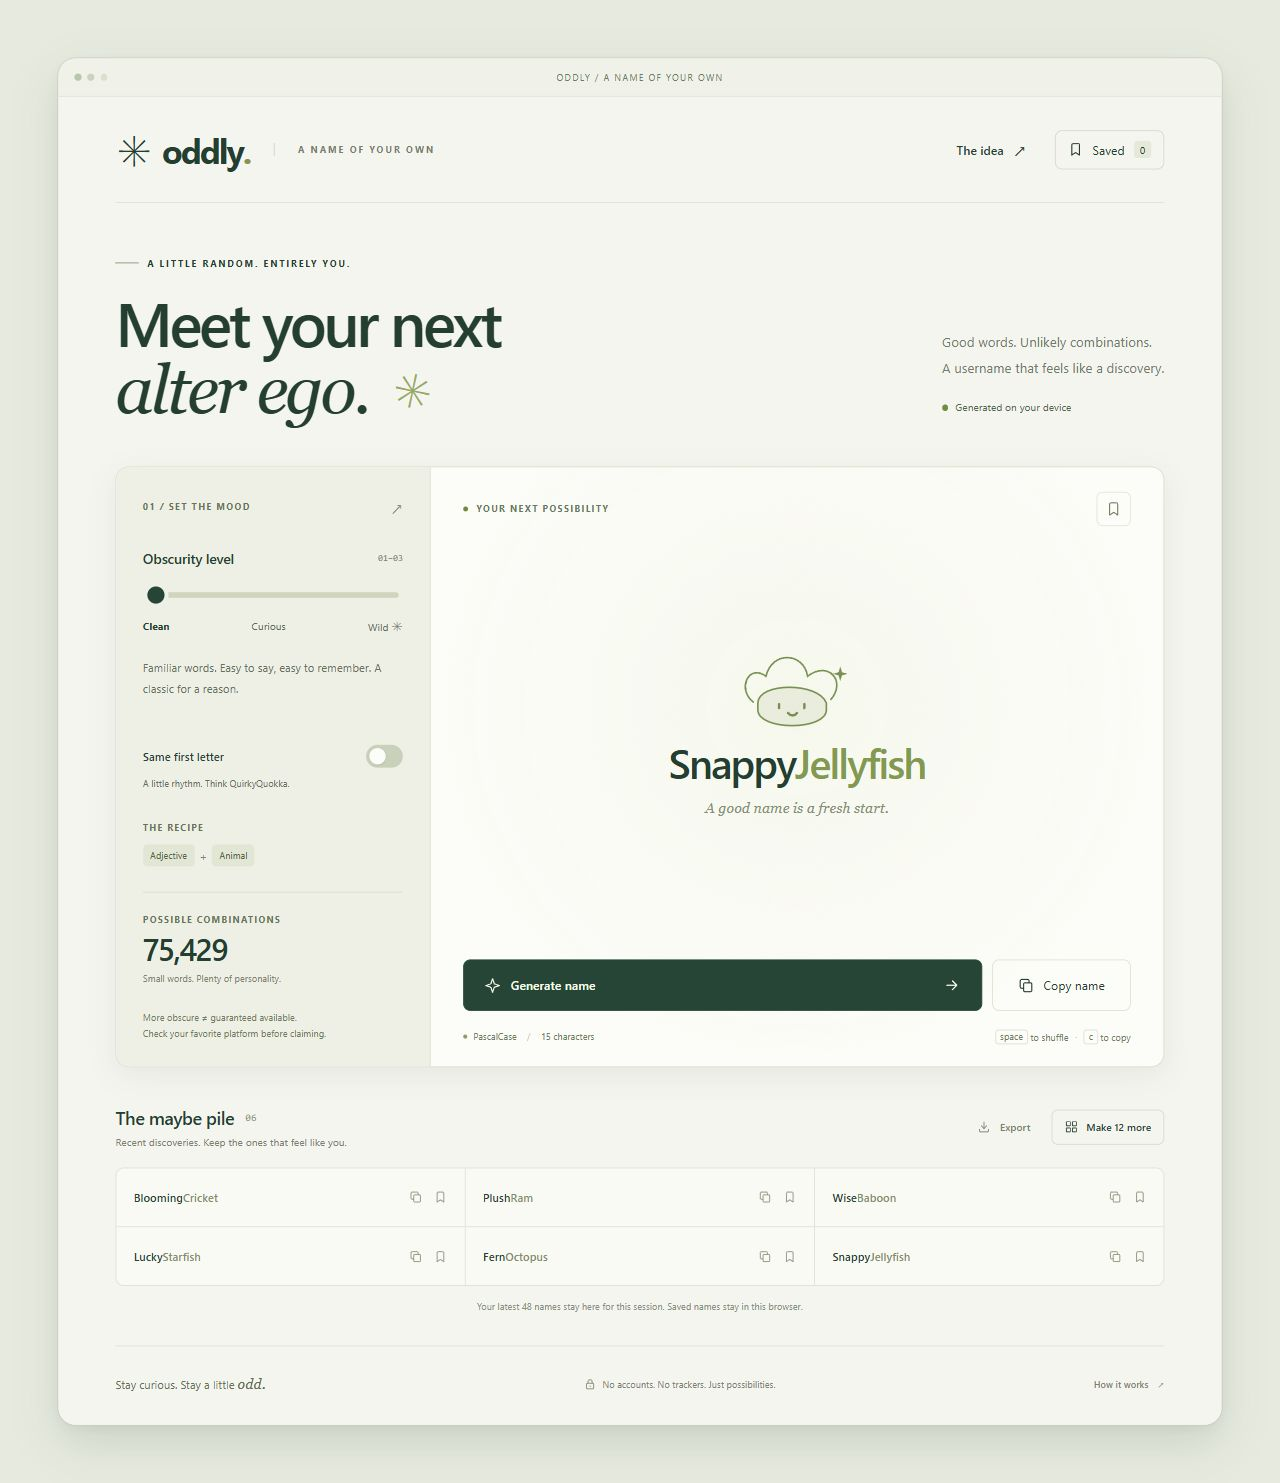
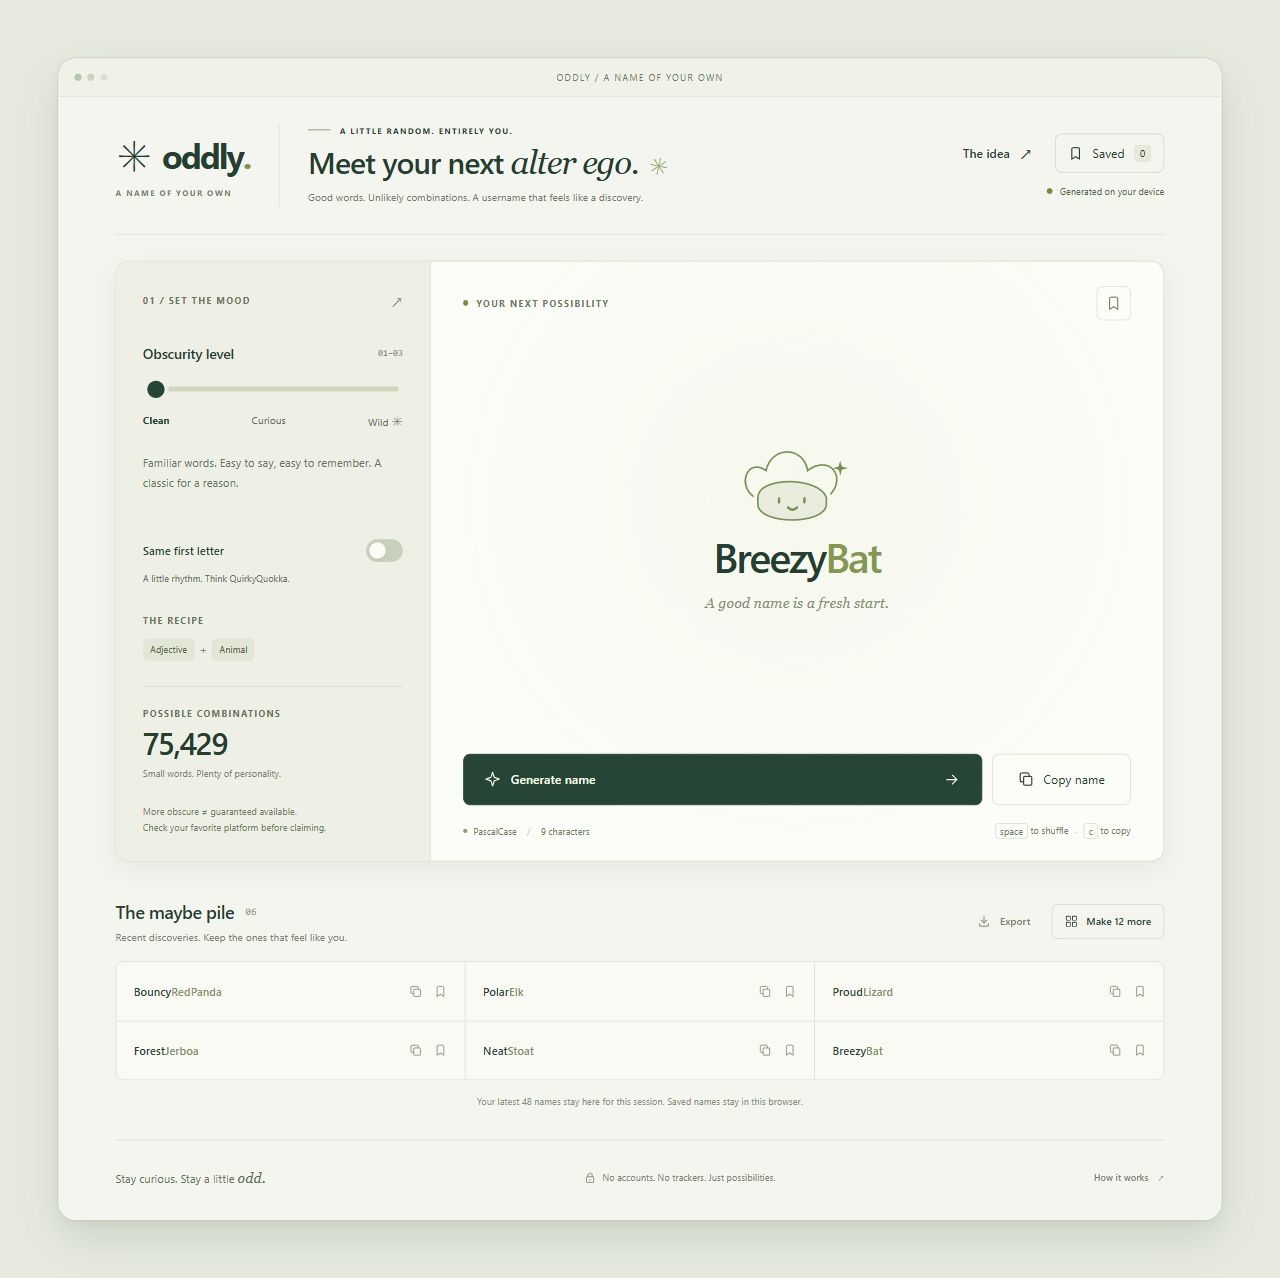
Combine navigation and intro into a compact horizontal header

diff --git a/styles.css b/styles.css
@@ -13,7 +13,7 @@
 @layer base {
   :root { --paper: #f5f5ef; --ink: #253e32; --muted: #73796e; --line: #dddfd4; --green: #264536; --lime: #e0edaf; --serif: Georgia, 'Times New Roman', serif; --sans: 'Inter', 'Segoe UI', -apple-system, BlinkMacSystemFont, sans-serif; }
   html { background: var(--paper); color: var(--ink); font-family: var(--sans); font-size: 14px; scroll-behavior: smooth; }
-  body { min-width: 320px; }
+  body { min-width: 0; }
   button { border: 0; background: none; }
   a { color: inherit; text-decoration: none; }
   button, a, input { touch-action: manipulation; }
@@ -26,12 +26,14 @@
   .icon-definitions { position: absolute; width: 0; height: 0; overflow: hidden; }
   .icon { width: 19px; height: 19px; flex-shrink: 0; fill: none; stroke: currentColor; stroke-width: 1.65; stroke-linecap: round; stroke-linejoin: round; }
   .site-shell { max-width: 1248px; margin: auto; padding: 0 56px; }
-  .site-header { height: 104px; display: flex; align-items: center; border-bottom: 1px solid var(--line); gap: 23px; }
+  .site-header { display: grid; grid-template-columns: auto minmax(0, 1fr) auto; align-items: center; border-bottom: 1px solid var(--line); column-gap: 28px; padding: 27px 0; margin-bottom: 25px; }
+  .brand-group { display: flex; flex-direction: column; align-items: flex-start; gap: 10px; }
   .brand { display: inline-flex; align-items: center; font-size: 33px; font-weight: 750; letter-spacing: -1.8px; }
   .brand-mark { font-size: 41px; font-weight: 500; margin-right: 11px; line-height: 1; }
   .brand-dot { color: #839550; }
-  .brand-caption { border-left: 1px solid #cbd0bf; padding-left: 23px; color: #767e70; font-size: 9px; letter-spacing: 1.8px; font-weight: 650; }
-  .site-header nav { margin-left: auto; display: flex; align-items: center; gap: 28px; }
+  .brand-caption { color: #767e70; font-size: 8px; letter-spacing: 1.3px; font-weight: 650; }
+  .header-actions { display: flex; flex-direction: column; align-items: flex-end; gap: 12px; }
+  .site-header nav { display: flex; align-items: center; gap: 22px; }
   .text-button { display: inline-flex; align-items: center; gap: 9px; font-size: 12px; font-weight: 550; padding: 7px 0; transition: color .15s; }
   .text-button:hover { color: #718a37; }
   .about-button span { font-size: 18px; }
@@ -39,14 +41,15 @@
   .saved-button:hover { background: #e9ecdf; }
   .saved-button .icon { width: 15px; height: 15px; }
   .count-badge { border-radius: 3px; font-size: 10px; background: #e5e9d9; padding: 2px 5px; min-width: 17px; text-align: center; }
-  .intro { display: flex; align-items: flex-end; justify-content: space-between; padding: 53px 0 40px; gap: 30px; }
+  .intro { border-left: 1px solid var(--line); padding-left: 28px; }
+  .intro .eyebrow { font-size: 8px; letter-spacing: 1.25px; }
   .eyebrow { font-size: 9px; font-weight: 650; letter-spacing: 1.7px; display: flex; align-items: center; gap: 9px; }
   .tiny-line { display: inline-block; width: 22px; height: 1px; background: #7e8a65; }
-  h1 { font-size: clamp(52px, 5.3vw, 68px); font-weight: 500; line-height: 1.06; letter-spacing: -3px; margin-top: 20px; position: relative; }
-  h1 em { font-family: var(--serif); font-size: 1.08em; font-weight: 400; letter-spacing: -2.8px; }
-  .title-star { display: inline-block; font-size: 46px; color: #95aa60; vertical-align: top; margin: 9px 0 0 23px; line-height: 1; transform: rotate(12deg); }
-  .intro-note { margin-bottom: 8px; max-width: 310px; color: #727a6e; font-size: 13px; line-height: 1.9; }
-  .privacy-note { font-size: 10px; color: #53664c; display: flex; align-items: center; gap: 7px; margin-top: 18px; }
+  h1 { font-size: clamp(25px, 2.6vw, 33px); font-weight: 500; line-height: 1.2; letter-spacing: -1px; margin-top: 7px; }
+  h1 em { font-family: var(--serif); font-size: 1.08em; font-weight: 400; letter-spacing: -1px; }
+  .title-star { display: inline-block; font-size: 23px; color: #95aa60; vertical-align: middle; margin: 0 0 3px 10px; line-height: 1; transform: rotate(12deg); }
+  .intro-note { margin-top: 7px; color: #727a6e; font-size: 10px; line-height: 1.7; }
+  .privacy-note { font-size: 9px; color: #53664c; display: flex; align-items: center; gap: 7px; }
   .status-dot { background: #6f8d41; width: 6px; height: 6px; border-radius: 50%; display: inline-block; flex-shrink: 0; }
   .workbench { border: 1px solid #d8ddcc; border-radius: 13px; overflow: hidden; display: grid; grid-template-columns: 30% minmax(0, 1fr); background: #fcfcf8; box-shadow: 0 8px 28px #263a2312; }
   .settings { padding: 27px 26px 24px; background: #eeefe5; border-right: 1px solid #dce0d0; display: flex; flex-direction: column; }
@@ -177,11 +180,35 @@
 }
 
 @layer responsive {
-  @media (min-width: 1440px) { .site-shell { padding-top: 10px; } .intro { padding-top: 64px; padding-bottom: 45px; } .generator { min-height: 472px; } }
-  @media (max-width: 1050px) { .site-shell { padding: 0 32px; } .settings { padding: 24px 20px; } .generator { padding: 22px 25px; } .workbench { grid-template-columns: 31% minmax(0, 1fr); } .keyboard-tip { display: none; } .generated-name { font-size: 35px; } .intro-note { font-size: 12px; } .name-row { padding-left: 12px; } .row-actions { gap: 0; } .row-name { font-size: 10px; } }
-  @media (max-width: 760px) { .site-shell { padding: 0 23px; } .site-header { height: 82px; } .brand-caption { display: none; } .site-header nav { gap: 20px; } .intro { padding: 36px 0 30px; } h1 { font-size: 53px; letter-spacing: -2.5px; } .intro-note { max-width: 210px; font-size: 11px; } .title-star { font-size: 35px; margin-left: 14px; } .workbench { grid-template-columns: minmax(0, 1fr); } .settings { padding: 21px 24px; border-right: 0; border-bottom: 1px solid #dce0d0; display: grid; grid-template-columns: minmax(0, 1fr) minmax(0, 1fr); column-gap: 30px; } .section-heading { margin-bottom: 19px; grid-column: 1 / -1; } .level-heading { grid-column: 1; } input[type='range'] { grid-column: 1; } .level-stops { grid-column: 1; } .level-description { grid-column: 1; margin: 13px 0 0; min-height: auto; } .recipe-section { grid-column: 2; grid-row: 2 / 4; align-self: start; } .possibilities { grid-column: 2; grid-row: 4 / 6; margin: 0; padding-top: 14px; align-self: end; } .possibilities strong { font-size: 28px; } .availability-note { grid-column: 1 / -1; padding-top: 17px; font-size: 8px; } .availability-note br { display: none; } .generator { min-height: 360px; padding: 20px 24px; } .name-art { width: 110px; height: 69px; } .generated-name { font-size: clamp(30px, 5.5vw, 43px); } .generated-name.long-name { font-size: clamp(25px, 4.8vw, 36px); } .generated-name.extra-long-name { font-size: clamp(23px, 4.5vw, 31px); } .recent-grid { grid-template-columns: repeat(2, minmax(0, 1fr)); } .row-name { font-size: 11px; } .site-footer > span:nth-child(2) { display: none; } .recent-header p { font-size: 9px; } .recent-actions { gap: 12px; } .export-button { font-size: 0; gap: 0; } .export-button .icon { width: 16px; height: 16px; } }
-  @media (max-width: 480px) { .site-shell { padding: 0 18px; } .site-header { height: 75px; } .brand { font-size: 29px; } .brand-mark { font-size: 35px; margin-right: 8px; } .site-header nav { gap: 16px; } .about-button { font-size: 10px; } .saved-button { padding: 8px 9px; font-size: 10px; gap: 6px; } .intro { display: block; padding-top: 32px; } .eyebrow { font-size: 7px; letter-spacing: 1.25px; } h1 { font-size: 53px; margin-top: 17px; } .intro-note { margin-top: 22px; max-width: none; font-size: 11px; line-height: 1.8; } .intro-note p br { display: none; } .privacy-note { font-size: 9px; margin-top: 11px; } .settings { padding: 19px; column-gap: 18px; } .level-heading label { font-size: 12px; } #level-index { font-size: 8px; } .section-heading { margin-bottom: 17px; } .section-heading .eyebrow { font-size: 7px; } .small-label { font-size: 7px; letter-spacing: .9px; } .recipe { gap: 4px; margin-top: 8px; } .recipe span { font-size: 8px; padding: 4px 5px; } .recipe b { font-size: 9px; } .level-description { font-size: 10px; } .possibilities strong { font-size: 25px; } .possibilities > span:last-child { font-size: 8px; } .generator { min-height: 342px; padding: 18px; } .generator-actions { gap: 8px; } .primary-button { padding: 14px 12px; font-size: 11px; gap: 7px; } .copy-button { min-width: 94px; padding: 13px 11px; font-size: 11px; gap: 6px; } .primary-button .arrow-icon { width: 14px; } .generated-name { font-size: 31px; letter-spacing: -1.1px; } .generated-name.long-name { font-size: 25px; } .generated-name.extra-long-name { font-size: 23px; } .name-subtitle { font-size: 13px; } .recent-section { padding-top: 28px; } .recent-header { align-items: flex-start; } .recent-header h2 { font-size: 17px; } .recent-header p { font-size: 9px; max-width: 175px; line-height: 1.7; } .batch-button { padding: 9px; font-size: 9px; white-space: nowrap; } .recent-actions { gap: 10px; padding-top: 2px; } .recent-grid { grid-template-columns: minmax(0, 1fr); } .row-name { font-size: 12px; } .name-row { padding: 11px 12px 11px 16px; min-height: 51px; } .row-actions .icon { width: 15px; height: 15px; } .row-actions .icon-button { padding: 7px; } .history-note { font-size: 8px; line-height: 1.7; } .site-footer { font-size: 8px; padding-top: 18px; } .site-footer > span:first-child { font-size: 10px; } dialog { padding: 24px 20px; } .dialog-header h2 { font-size: 26px; } }
+  @media (min-width: 1440px) { .site-shell { padding-top: 10px; } .generator { min-height: 472px; } }
+  @media (max-width: 1050px) { .site-shell { padding: 0 32px; } .settings { padding: 24px 20px; } .generator { padding: 22px 25px; } .workbench { grid-template-columns: 31% minmax(0, 1fr); } .keyboard-tip { display: none; } .generated-name { font-size: 35px; } .name-row { padding-left: 12px; } .row-actions { gap: 0; } .row-name { font-size: 10px; } }
+  @media (max-width: 760px) { .site-shell { padding: 0 23px; } .brand-caption { display: none; } .site-header nav { gap: 20px; } .workbench { grid-template-columns: minmax(0, 1fr); } .settings { padding: 21px 24px; border-right: 0; border-bottom: 1px solid #dce0d0; display: grid; grid-template-columns: minmax(0, 1fr) minmax(0, 1fr); column-gap: 30px; } .section-heading { margin-bottom: 19px; grid-column: 1 / -1; } .level-heading { grid-column: 1; } input[type='range'] { grid-column: 1; } .level-stops { grid-column: 1; } .level-description { grid-column: 1; margin: 13px 0 0; min-height: auto; } .recipe-section { grid-column: 2; grid-row: 2 / 4; align-self: start; } .possibilities { grid-column: 2; grid-row: 4 / 6; margin: 0; padding-top: 14px; align-self: end; } .possibilities strong { font-size: 28px; } .availability-note { grid-column: 1 / -1; padding-top: 17px; font-size: 8px; } .availability-note br { display: none; } .generator { min-height: 360px; padding: 20px 24px; } .name-art { width: 110px; height: 69px; } .generated-name { font-size: clamp(30px, 5.5vw, 43px); } .generated-name.long-name { font-size: clamp(25px, 4.8vw, 36px); } .generated-name.extra-long-name { font-size: clamp(23px, 4.5vw, 31px); } .recent-grid { grid-template-columns: repeat(2, minmax(0, 1fr)); } .row-name { font-size: 11px; } .site-footer > span:nth-child(2) { display: none; } .recent-header p { font-size: 9px; } .recent-actions { gap: 12px; } .export-button { font-size: 0; gap: 0; } .export-button .icon { width: 16px; height: 16px; } }
+  @media (max-width: 480px) { .site-shell { padding: 0 18px; } .brand { font-size: 29px; } .brand-mark { font-size: 35px; margin-right: 8px; } .site-header nav { gap: 16px; } .about-button { font-size: 10px; } .saved-button { padding: 8px 9px; font-size: 10px; gap: 6px; } .eyebrow { font-size: 7px; letter-spacing: 1.25px; } .settings { padding: 19px; column-gap: 18px; } .level-heading label { font-size: 12px; } #level-index { font-size: 8px; } .section-heading { margin-bottom: 17px; } .section-heading .eyebrow { font-size: 7px; } .small-label { font-size: 7px; letter-spacing: .9px; } .recipe { gap: 4px; margin-top: 8px; } .recipe span { font-size: 8px; padding: 4px 5px; } .recipe b { font-size: 9px; } .level-description { font-size: 10px; } .possibilities strong { font-size: 25px; } .possibilities > span:last-child { font-size: 8px; } .generator { min-height: 342px; padding: 18px; } .generator-actions { gap: 8px; } .primary-button { padding: 14px 12px; font-size: 11px; gap: 7px; } .copy-button { min-width: 94px; padding: 13px 11px; font-size: 11px; gap: 6px; } .primary-button .arrow-icon { width: 14px; } .generated-name { font-size: 31px; letter-spacing: -1.1px; } .generated-name.long-name { font-size: 25px; } .generated-name.extra-long-name { font-size: 23px; } .name-subtitle { font-size: 13px; } .recent-section { padding-top: 28px; } .recent-header { align-items: flex-start; } .recent-header h2 { font-size: 17px; } .recent-header p { font-size: 9px; max-width: 175px; line-height: 1.7; } .batch-button { padding: 9px; font-size: 9px; white-space: nowrap; } .recent-actions { gap: 10px; padding-top: 2px; } .recent-grid { grid-template-columns: minmax(0, 1fr); } .row-name { font-size: 12px; } .name-row { padding: 11px 12px 11px 16px; min-height: 51px; } .row-actions .icon { width: 15px; height: 15px; } .row-actions .icon-button { padding: 7px; } .history-note { font-size: 8px; line-height: 1.7; } .site-footer { font-size: 8px; padding-top: 18px; } .site-footer > span:first-child { font-size: 10px; } dialog { padding: 24px 20px; } .dialog-header h2 { font-size: 26px; } }
   @media (prefers-reduced-motion: reduce) { *, *::before, *::after { animation-duration: .01ms !important; transition-duration: .01ms !important; scroll-behavior: auto !important; } }
   @media (max-width: 480px) { .section-heading .eyebrow { font-size: 8px; } .small-label { font-size: 8px; } .availability-note { font-size: 9px; line-height: 1.75; } .history-note { font-size: 9px; } }
   @media (max-width: 760px) { .alliteration-setting { grid-column: 1 / -1; margin: 19px 0 0; padding-top: 14px; border-top: 1px solid #d8ddcb; } }
+
+  @media (max-width: 900px) {
+    .site-header { grid-template-columns: minmax(0, 1fr) auto; row-gap: 19px; padding: 22px 0; margin-bottom: 22px; }
+    .brand-group { gap: 7px; }
+    .intro { grid-column: 1 / -1; grid-row: 2; border-left: 0; padding-left: 0; }
+    h1 { font-size: 30px; }
+    .intro-note { max-width: none; }
+    .header-actions { gap: 9px; }
+  }
+  @media (max-width: 480px) {
+    .site-header { padding: 18px 0; gap: 16px; margin-bottom: 18px; }
+    .site-header nav { gap: 12px; }
+    .header-actions .privacy-note { font-size: 8px; }
+    .intro .eyebrow { font-size: 7px; letter-spacing: 1.1px; }
+    h1 { font-size: 27px; }
+    .intro-note { font-size: 9.5px; }
+    .title-star { font-size: 20px; margin-left: 7px; }
+  }
+  @media (max-width: 360px) {
+    .site-shell { padding: 0 14px; }
+    .brand { font-size: 25px; }
+    .brand-mark { font-size: 29px; margin-right: 6px; }
+    .site-header nav { gap: 9px; }
+  }
 }

diff --git a/index.html b/index.html
@@ -26,23 +26,25 @@
 
     <div class="site-shell">
       <header class="site-header">
-        <a class="brand" href="./" aria-label="Oddly home"><span class="brand-mark" aria-hidden="true">✳</span>oddly<span class="brand-dot">.</span></a>
-        <span class="brand-caption">A NAME OF YOUR OWN</span>
-        <nav aria-label="Main navigation">
-          <button class="text-button about-button" id="about-open">The idea <span aria-hidden="true">↗</span></button>
-          <button class="saved-button" id="saved-open"><svg class="icon"><use href="#i-bookmark"/></svg> Saved <span class="count-badge" id="saved-count">0</span></button>
-        </nav>
+        <div class="brand-group">
+          <a class="brand" href="./" aria-label="Oddly home"><span class="brand-mark" aria-hidden="true">✳</span>oddly<span class="brand-dot">.</span></a>
+          <span class="brand-caption">A NAME OF YOUR OWN</span>
+        </div>
+        <div class="intro">
+          <p class="eyebrow"><span class="tiny-line"></span> A LITTLE RANDOM. ENTIRELY YOU.</p>
+          <h1 id="page-title">Meet your next <em>alter ego.</em><span class="title-star" aria-hidden="true">✳</span></h1>
+          <div class="intro-note"><p>Good words. Unlikely combinations. A username that feels like a discovery.</p></div>
+        </div>
+        <div class="header-actions">
+          <nav aria-label="Main navigation">
+            <button class="text-button about-button" id="about-open">The idea <span aria-hidden="true">↗</span></button>
+            <button class="saved-button" id="saved-open"><svg class="icon"><use href="#i-bookmark"/></svg> Saved <span class="count-badge" id="saved-count">0</span></button>
+          </nav>
+          <span class="privacy-note"><span class="status-dot"></span> Generated on your device</span>
+        </div>
       </header>
 
       <main>
-        <section class="intro" aria-labelledby="page-title">
-          <div>
-            <p class="eyebrow"><span class="tiny-line"></span> A LITTLE RANDOM. ENTIRELY YOU.</p>
-            <h1 id="page-title">Meet your next<br><em>alter ego.</em><span class="title-star" aria-hidden="true">✳</span></h1>
-          </div>
-          <div class="intro-note"><p>Good words. Unlikely combinations.<br>A username that feels like a discovery.</p><span class="privacy-note"><span class="status-dot"></span> Generated on your device</span></div>
-        </section>
-
         <section class="workbench" aria-label="Username generator">
           <aside class="settings">
             <div class="section-heading"><span class="eyebrow">01 / SET THE MOOD</span><span class="setting-symbol" aria-hidden="true">↗</span></div>
